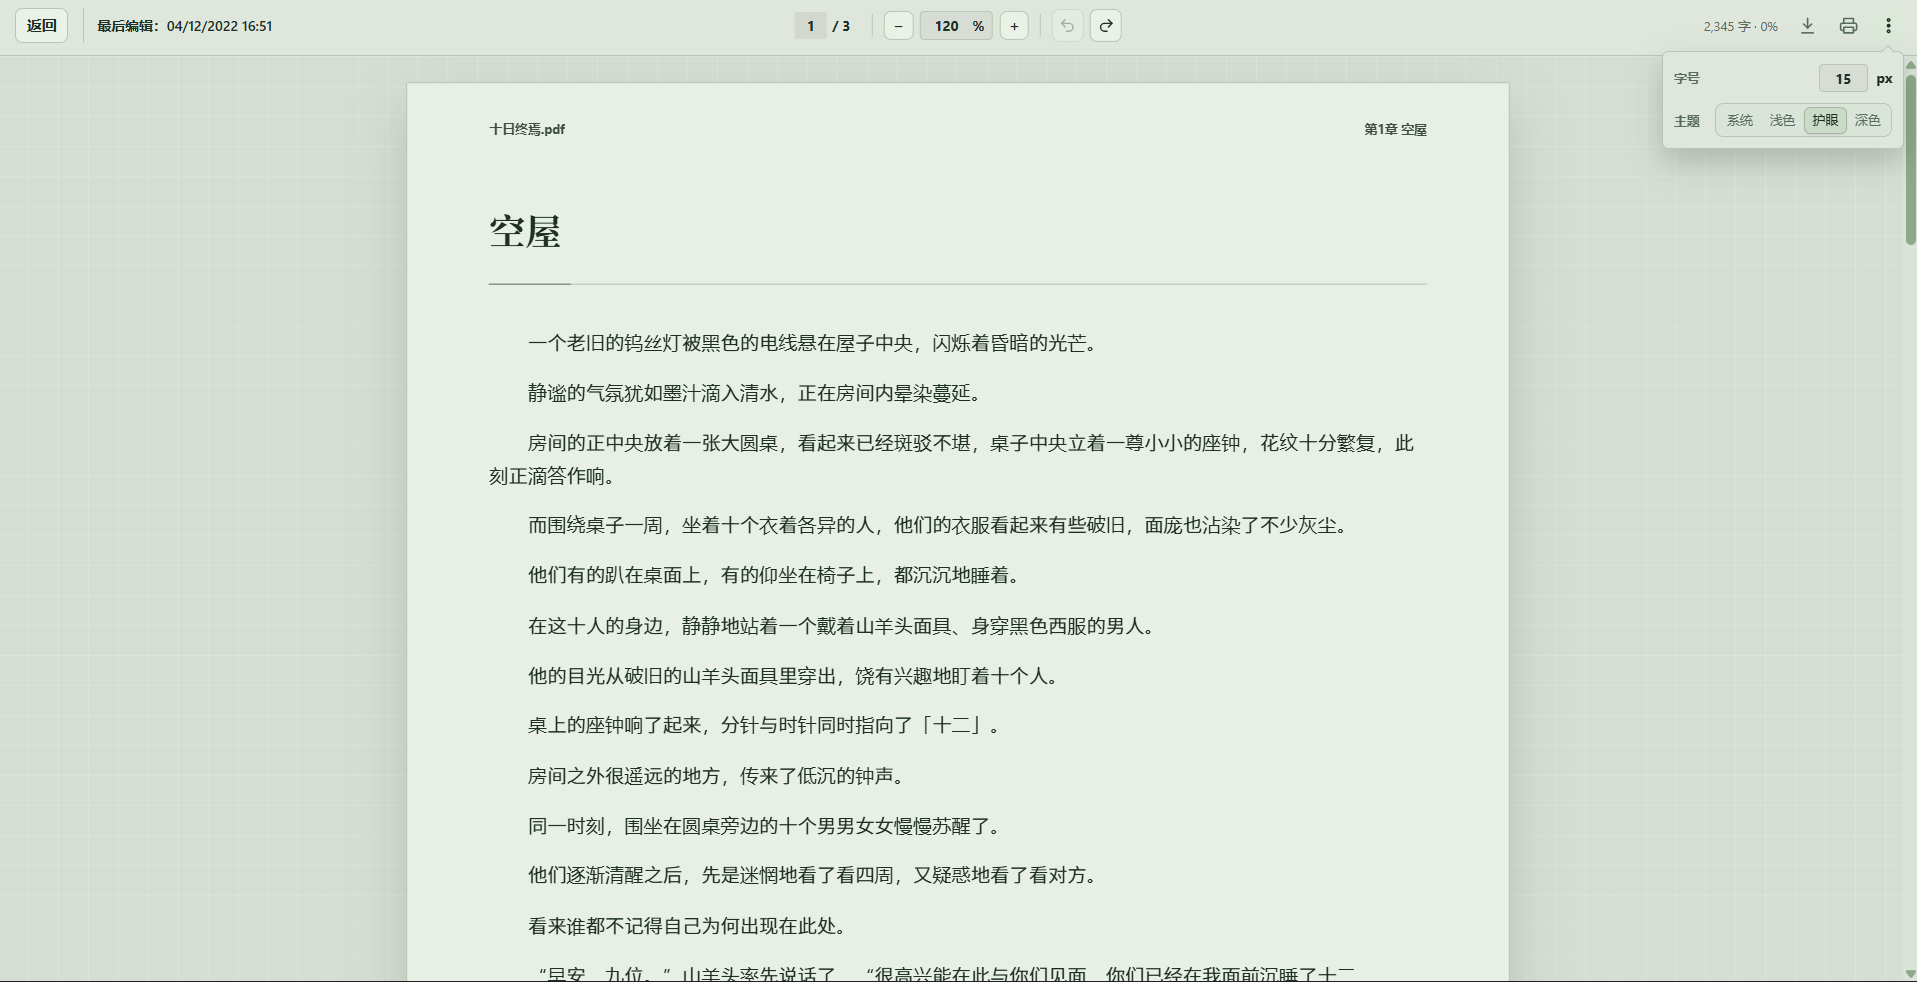
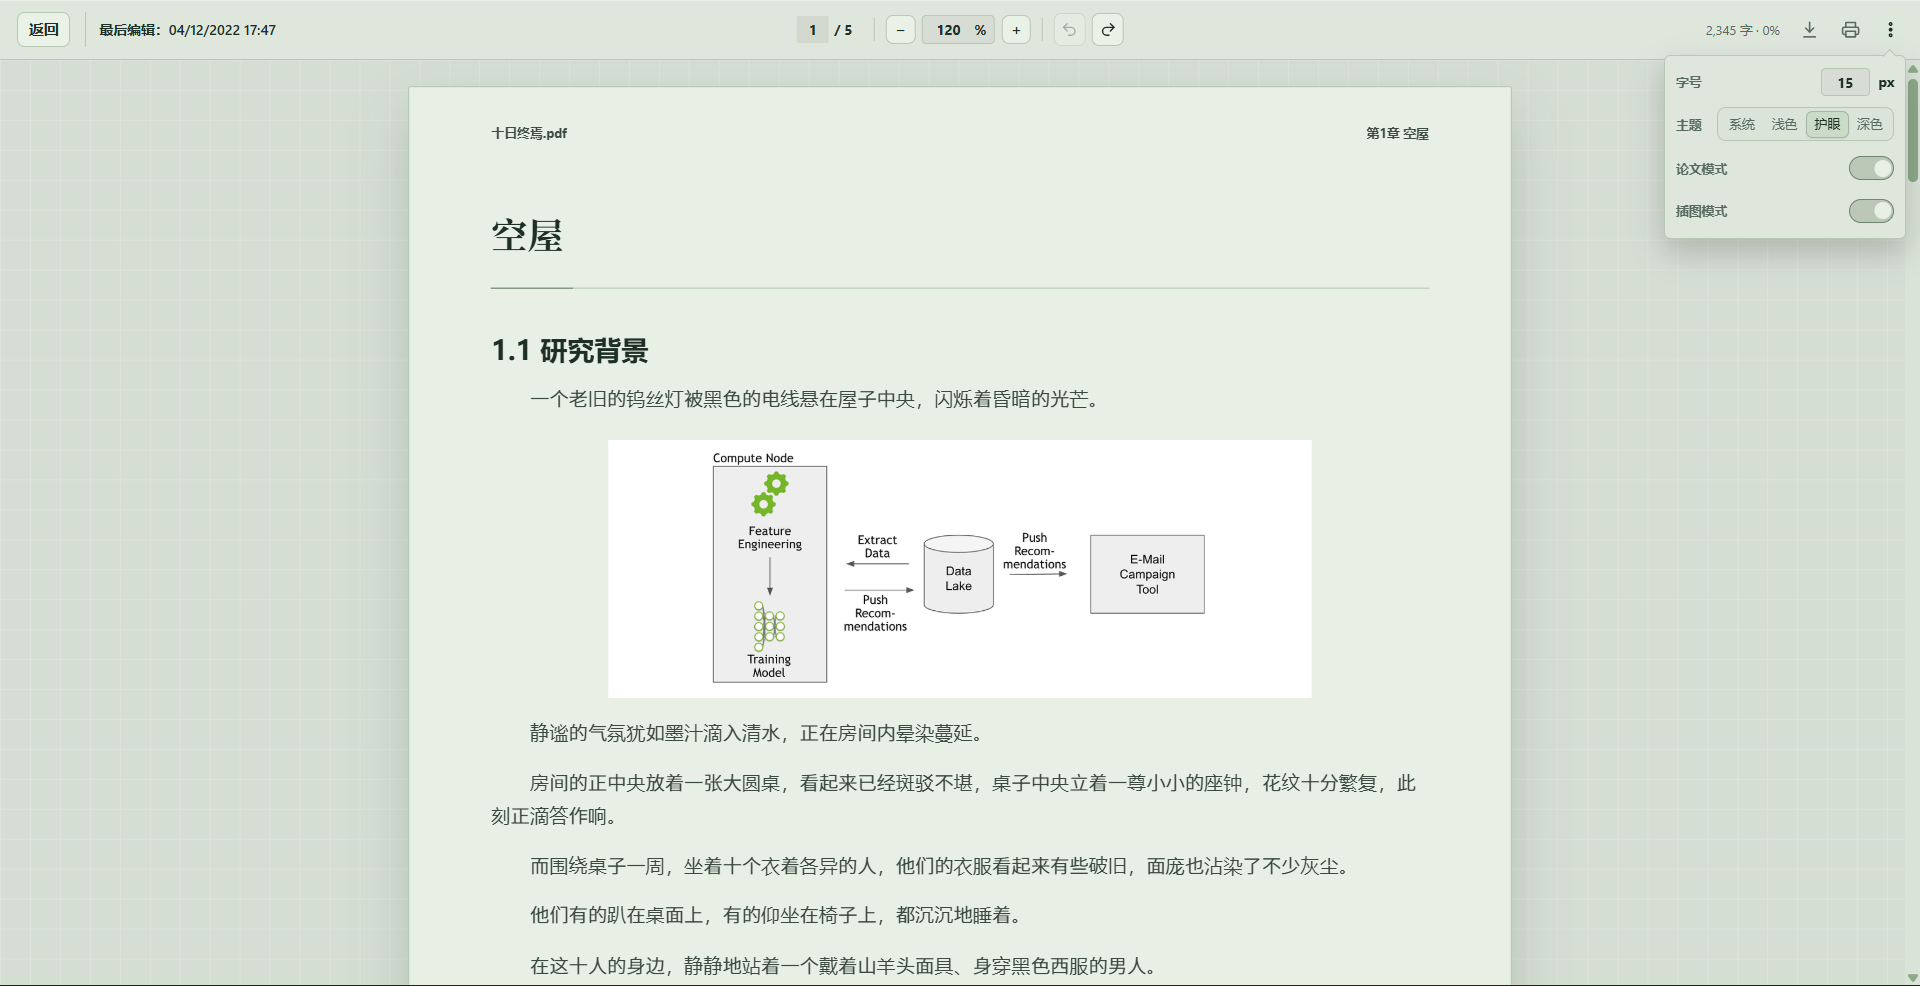
feat: add figure mode with local image support and update README

diff --git a/content.js b/content.js
@@ -19,6 +19,7 @@
     pageScale: 100,
     theme: "system",
     thesisMode: false,
+    figureMode: false,
   };
 
   const PAGE_WIDTHS = {
@@ -47,6 +48,22 @@
     "比较观察",
     "阶段小结",
     "后续展望",
+  ];
+  const FIGURE_ASSET_PATHS = [
+    "src/0_lRi888vssyKrR2Ks.jpg",
+    "src/1-s2.0-S0925231223010044-gr3.jpg",
+    "src/1_zOaGnixBZ9VuLm8ig_r7Ig.png",
+    "src/1b4M7o7W8bfRRxdMxtFoVBQ.webp",
+    "src/2-Figure1-1.png",
+    "src/images (1).jpg",
+    "src/images (1).png",
+    "src/images (2).jpg",
+    "src/images (2).png",
+    "src/images (3).jpg",
+    "src/images (3).png",
+    "src/images.jpg",
+    "src/images.png",
+    "src/Recommender-Systems_.webp",
   ];
 
   const SOURCE_SELECTORS = [
@@ -236,6 +253,7 @@
     const next = { ...DEFAULT_SETTINGS, ...(input || {}) };
     next.enabled = Boolean(next.enabled);
     next.thesisMode = Boolean(next.thesisMode);
+    next.figureMode = Boolean(next.figureMode);
     next.fontSize = clampNumber(next.fontSize, 14, 28, DEFAULT_SETTINGS.fontSize);
     next.pageScale = clampNumber(
       next.pageScale,
@@ -483,6 +501,7 @@
       navigationFingerprint,
       state.settings.enabled,
       state.settings.thesisMode,
+      state.settings.figureMode,
     ].join("::");
     const shouldRender = renderKey !== state.lastRenderKey || reason === "init";
 
@@ -1175,6 +1194,7 @@
     state.root.dataset.theme = resolveTheme(state.settings.theme);
     state.root.dataset.themeChoice = state.settings.theme;
     state.root.dataset.thesisMode = state.settings.thesisMode ? "true" : "false";
+    state.root.dataset.figureMode = state.settings.figureMode ? "true" : "false";
     state.root.style.setProperty("--fq-doc-font-size", `${state.settings.fontSize}px`);
     state.root.style.setProperty("--fq-doc-line-height", String(state.settings.lineHeight));
     state.root.style.setProperty(
@@ -1273,19 +1293,26 @@
     const pages = [];
     let page = createPageShell(1);
     let body = page.querySelector(".fq-doc-page-body");
+    let pageFigureState = createPageFigureState(1);
     pages.push(page);
     appendPageToScroller(scroller, page);
 
     contentNodes.forEach((node) => {
+      const insertedFigure = maybeInsertPageFigure(body, node, pageFigureState);
       body.append(node);
 
       if (isPageBodyOverflowing(body) && body.childElementCount > 1) {
         body.removeChild(node);
+        if (insertedFigure?.parentNode === body) {
+          body.removeChild(insertedFigure);
+          pageFigureState.figureInserted = false;
+        }
         const keepWithNextNode = takeKeepWithNextNode(body);
         page = createPageShell(pages.length + 1);
         body = page.querySelector(".fq-doc-page-body");
         pages.push(page);
         appendPageToScroller(scroller, page);
+        pageFigureState = createPageFigureState(pages.length);
         if (keepWithNextNode) {
           body.append(keepWithNextNode);
         }
@@ -1318,6 +1345,69 @@
     }
     body.removeChild(previous);
     return previous;
+  }
+
+  function createPageFigureState(pageNumber) {
+    return {
+      pageNumber,
+      figureInserted: false,
+    };
+  }
+
+  function maybeInsertPageFigure(body, node, pageFigureState) {
+    if (
+      !state.settings.figureMode ||
+      !FIGURE_ASSET_PATHS.length ||
+      pageFigureState.figureInserted ||
+      !node.classList?.contains("fq-doc-paragraph") ||
+      !body.lastElementChild?.classList?.contains("fq-doc-paragraph")
+    ) {
+      return null;
+    }
+
+    const figure = createPageFigureNode(pageFigureState.pageNumber);
+    body.append(figure);
+    pageFigureState.figureInserted = true;
+    return figure;
+  }
+
+  function createPageFigureNode(pageNumber) {
+    const figure = document.createElement("figure");
+    figure.className = "fq-doc-page-figure";
+
+    const image = document.createElement("img");
+    image.className = "fq-doc-page-figure-image";
+    image.src = getExtensionAssetUrl(selectPageFigureAsset(pageNumber));
+    image.alt = "论文插图";
+    image.loading = "lazy";
+    image.decoding = "async";
+
+    figure.append(image);
+    return figure;
+  }
+
+  function selectPageFigureAsset(pageNumber) {
+    const seed = createStableHash(
+      `${state.chapterIdentity || location.pathname}::${state.fingerprint}::${pageNumber}`,
+    );
+    return FIGURE_ASSET_PATHS[seed % FIGURE_ASSET_PATHS.length];
+  }
+
+  function createStableHash(value) {
+    let hash = 2166136261;
+    const text = String(value || "");
+    for (let index = 0; index < text.length; index += 1) {
+      hash ^= text.charCodeAt(index);
+      hash = Math.imul(hash, 16777619);
+    }
+    return hash >>> 0;
+  }
+
+  function getExtensionAssetUrl(path) {
+    if (globalThis.chrome?.runtime?.getURL) {
+      return globalThis.chrome.runtime.getURL(path);
+    }
+    return path;
   }
 
   function createPageShell(pageNumber) {
@@ -1847,7 +1937,13 @@
       onChange: (thesisMode) => updateSettings({ thesisMode }),
     });
 
-    panel.append(fontSizeControl, themeControl, thesisModeControl);
+    const figureModeControl = createSwitchControl({
+      label: "插图模式",
+      checked: state.settings.figureMode,
+      onChange: (figureMode) => updateSettings({ figureMode }),
+    });
+
+    panel.append(fontSizeControl, themeControl, thesisModeControl, figureModeControl);
     details.append(summary, panel);
     details.addEventListener("toggle", () => {
       state.moreMenuOpen = details.open;

diff --git a/reader.css b/reader.css
@@ -361,18 +361,18 @@ body.fq-doc-reader-active {
 }
 
 .fq-doc-thesis-heading-level-2 {
-  font-size: calc(var(--fq-doc-font-size) * 1.2 + 4px);
+  font-size: calc(var(--fq-doc-font-size) * 1.2 + 3px);
   line-height: 1.5;
 }
 
 .fq-doc-thesis-heading-level-3 {
-  font-size: calc(var(--fq-doc-font-size) * 1.08 + 4px);
+  font-size: calc(var(--fq-doc-font-size) * 1.08 + 3px);
   line-height: 1.55;
 }
 
 .fq-doc-thesis-heading-level-4 {
   margin-left: 2em;
-  font-size: calc(var(--fq-doc-font-size) + 4px);
+  font-size: calc(var(--fq-doc-font-size) + 3px);
   line-height: 1.55;
 }
 
@@ -397,6 +397,18 @@ body.fq-doc-reader-active {
 
 #fq-doc-reader-root[data-thesis-mode="true"] .fq-doc-paragraph {
   color: color-mix(in srgb, var(--fq-doc-text), transparent 14%);
+}
+
+.fq-doc-page-figure {
+  margin: calc(var(--fq-doc-font-size) * 1.15) 0 calc(var(--fq-doc-font-size) * 1.05);
+  text-align: center;
+}
+
+.fq-doc-page-figure-image {
+  display: block;
+  width: 75%;
+  height: auto;
+  margin: 0 auto;
 }
 
 .fq-doc-empty {